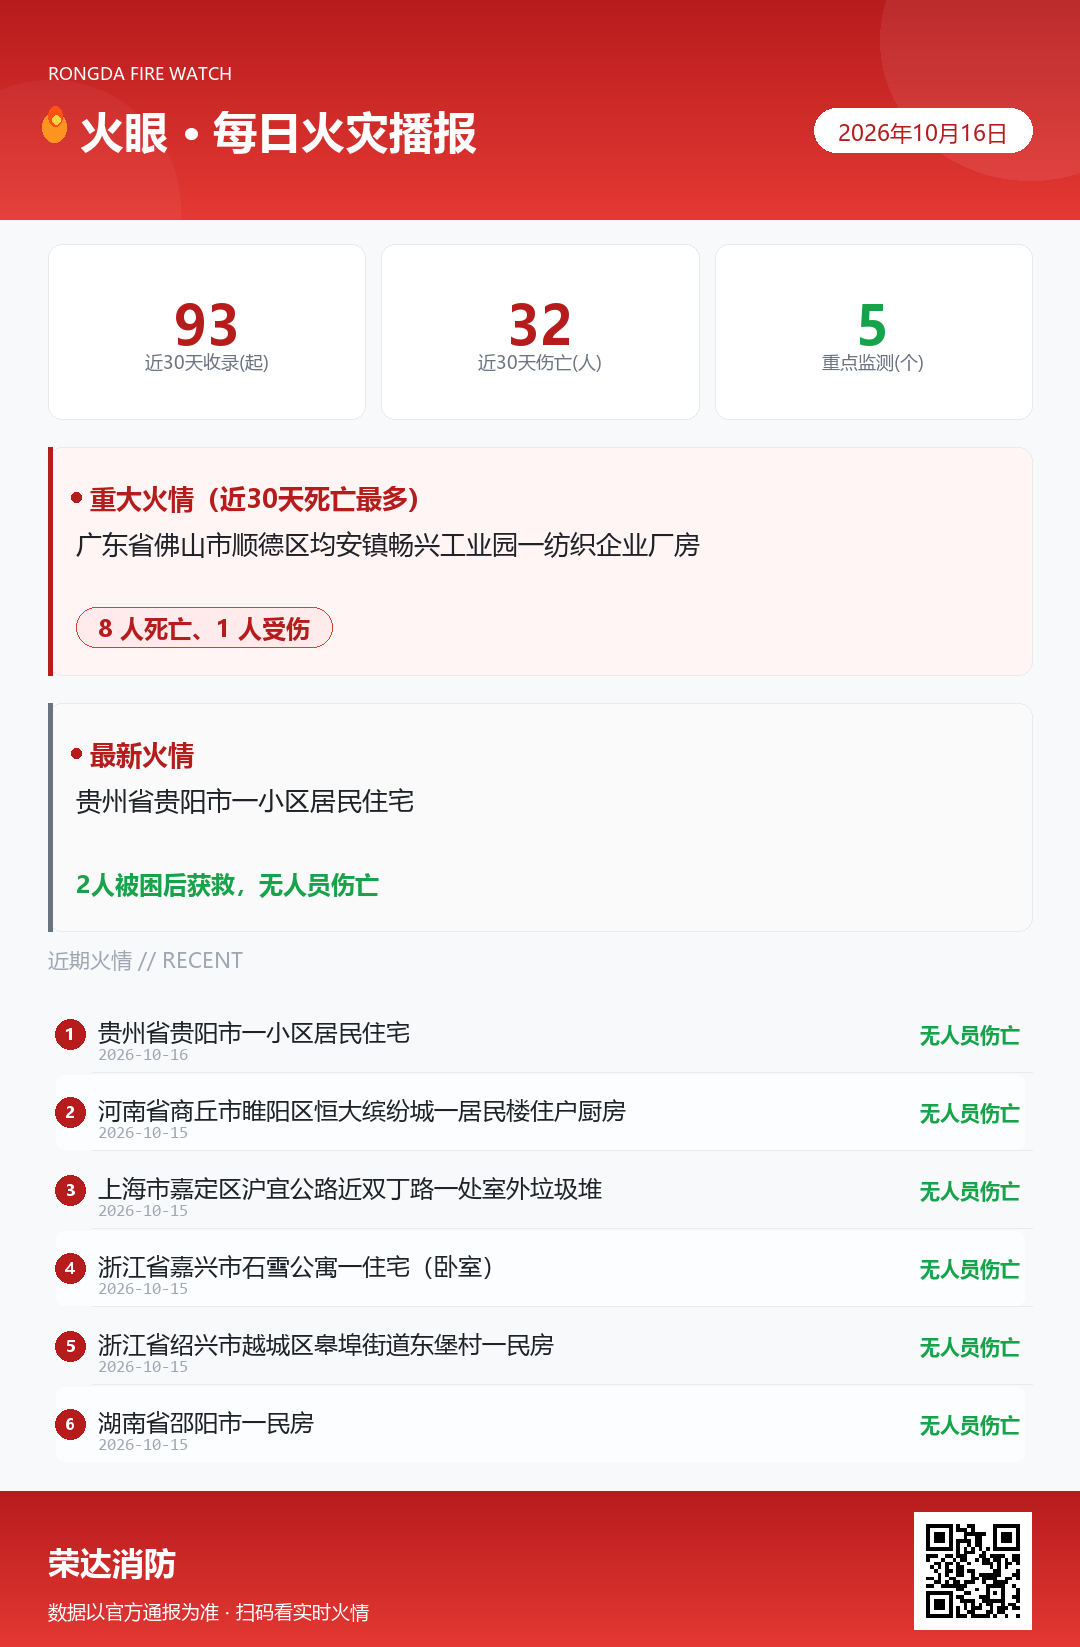
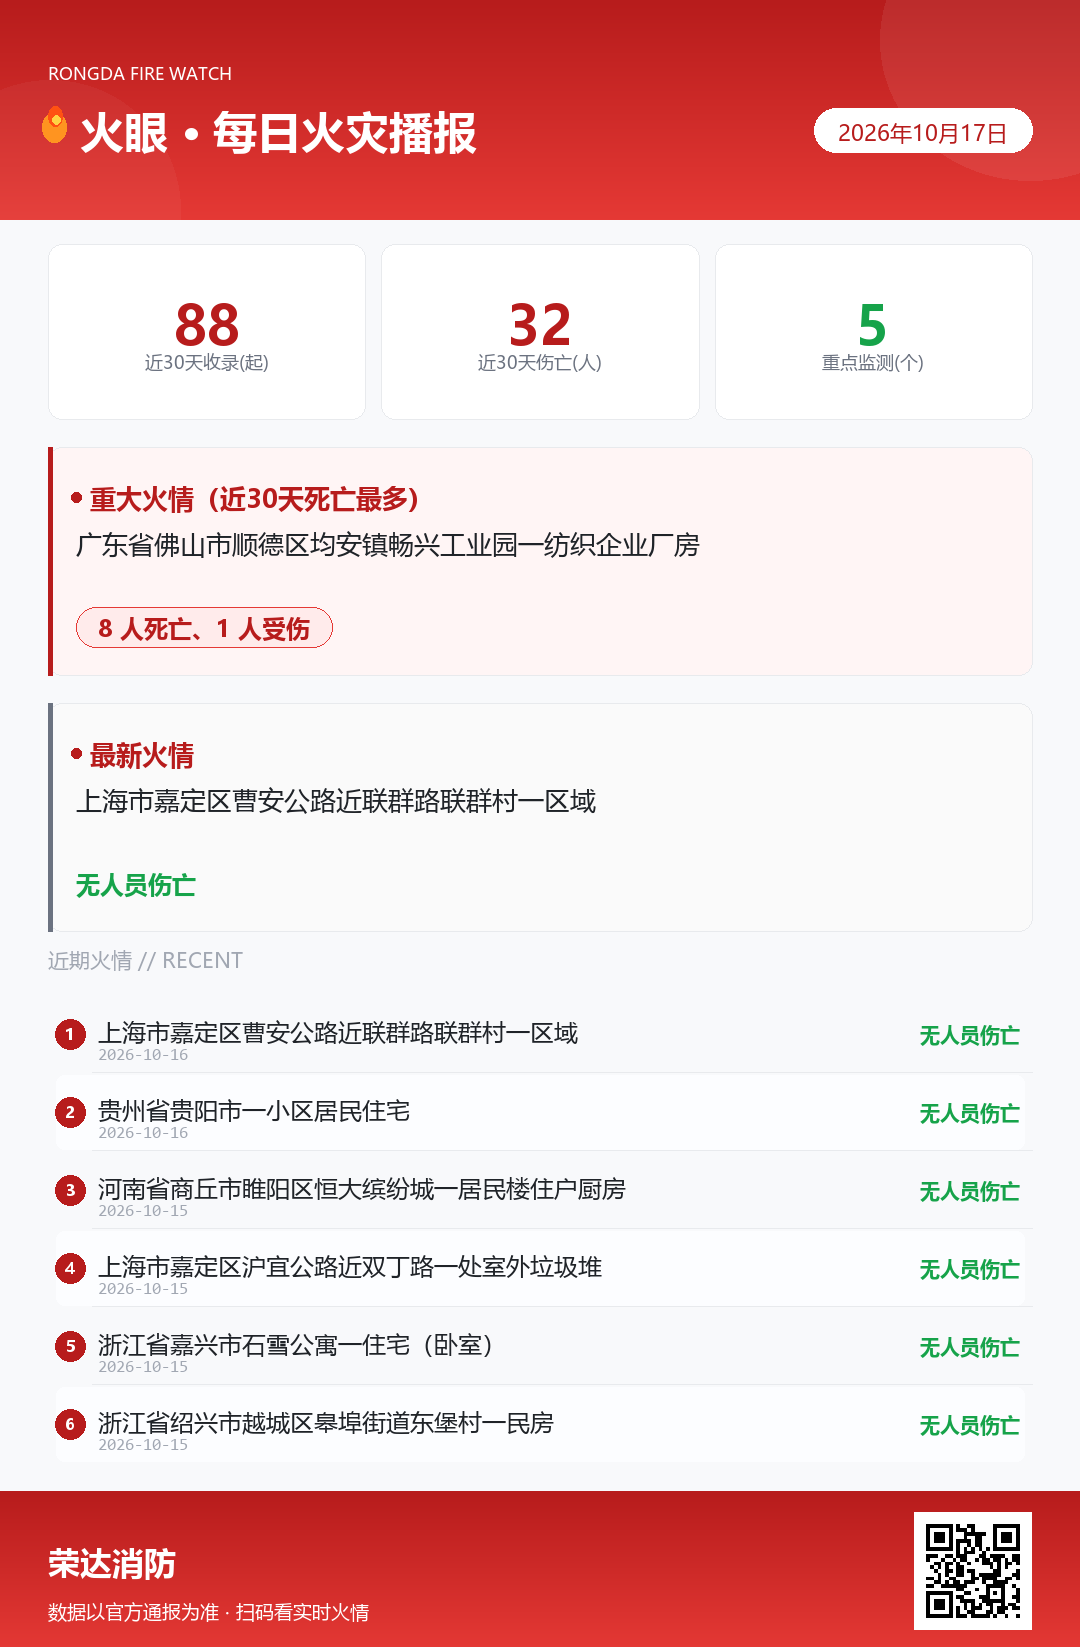
fire-daily-brief 2026-10-17 08:59 roll

diff --git a/index.html b/index.html
@@ -435,8 +435,8 @@
 <!-- ============ DATA（每日自动更新：由自动化脚本重写此对象） ============ -->
 <script id="brief-data" type="application/json">
 {
-  "date": "2026年10月16日",
-  "compileTime": "2026-10-16 09:18",
+  "date": "2026年10月17日",
+  "compileTime": "2026-10-17 08:58",
   "source": "AI 联网检索 · 各地消防救援机构官方通报及权威媒体转载",
   "range": "滚动更新 · 近 30 天",
   "stats": {
@@ -451,7 +451,7 @@
     },
     {
       "name": "上海市",
-      "status": "有官方通报（7·28/7·31 多起居民楼起火、8·4 闵行中春路单位建筑起火、8·7 虹口新市南路小区非机动车起火、8·10 浦东万安街路边车辆起火、8·17 G2京沪高速面包车起火、8·19 青浦盈浦街道居民顶楼起火、8·19 G1503绕城高速集卡追尾起火、8·28 浦东张江松涛路单位实验室起火、8·30 松江车墩镇松南城善德苑小区居民家中起火（无伤亡、9·1 凌晨浦东新区一社区居民楼6楼火情（2人送医）、9·1 杨浦新江湾城时代花园小区居民楼起火（无伤亡；9·1 松江区明中苑小区室外非机动车停车区域多辆非机动车烧毁（无伤亡、9·7 杨浦区殷行路近军工路小区垃圾房起火（无伤亡）、9·18 松江区泗泾镇方泗公路一辆新能源车追尾后起火燃烧（无人员伤亡）、9·28 浦东新区高青路一小区室外非机动车停车棚起火，多辆非机动车烧毁（无伤亡）、9·29 静安区天通庵路一工地内仓库起火（无伤亡）、9·29 崧泽高架平板牵引车起火（无伤亡）、10·9 宝山区上海大学南区学生公寓一女生宿舍起火（无人员伤亡）、10·9 青浦区城中西路一居民楼顶楼民宅起火（无人员伤亡报告））、10·12 杨浦区翔殷路791弄兰花新村小区一居民家中起火（2人送医，情况稳定、10·14 徐汇区天平街道一老式居民楼凌晨火情（充电宝故障热失控，无伤亡）、10·15 嘉定区沪宜公路近双丁路一处室外垃圾堆起火（燃烧垃圾渔网等杂物，无伤亡））"
+      "status": "有官方通报（7·28/7·31 多起居民楼起火、8·4 闵行中春路单位建筑起火、8·7 虹口新市南路小区非机动车起火、8·10 浦东万安街路边车辆起火、8·17 G2京沪高速面包车起火、8·19 青浦盈浦街道居民顶楼起火、8·19 G1503绕城高速集卡追尾起火、8·28 浦东张江松涛路单位实验室起火、8·30 松江车墩镇松南城善德苑小区居民家中起火（无伤亡、9·1 凌晨浦东新区一社区居民楼6楼火情（2人送医）、9·1 杨浦新江湾城时代花园小区居民楼起火（无伤亡；9·1 松江区明中苑小区室外非机动车停车区域多辆非机动车烧毁（无伤亡、9·7 杨浦区殷行路近军工路小区垃圾房起火（无伤亡）、9·18 松江区泗泾镇方泗公路一辆新能源车追尾后起火燃烧（无人员伤亡）、9·28 浦东新区高青路一小区室外非机动车停车棚起火，多辆非机动车烧毁（无伤亡）、9·29 静安区天通庵路一工地内仓库起火（无伤亡）、9·29 崧泽高架平板牵引车起火（无伤亡）、10·9 宝山区上海大学南区学生公寓一女生宿舍起火（无人员伤亡）、10·9 青浦区城中西路一居民楼顶楼民宅起火（无人员伤亡报告））、10·12 杨浦区翔殷路791弄兰花新村小区一居民家中起火（2人送医，情况稳定、10·14 徐汇区天平街道一老式居民楼凌晨火情（充电宝故障热失控，无伤亡）、10·15 嘉定区沪宜公路近双丁路一处室外垃圾堆起火（燃烧垃圾渔网等杂物，无伤亡）、10·16 嘉定区曹安公路近联群路一区域起火（夜间露天区域起火，无伤亡））"
     },
     {
       "name": "广州市",
@@ -464,12 +464,12 @@
   ],
   "case": {
     "date": "2026-10-16",
-    "location": "贵州省贵阳市一小区居民住宅",
-    "category": "住宅/民房",
-    "summary": "近日，贵阳市一小区居民住宅发生火灾，起火点位于该住宅厨房处，有 2 人被困。消防员迅速分组展开救援：一组利用水枪对火势进行压制，另一组立即对房门进行破拆，经过一段时间的紧张处置，成功将 2 名被困人员疏散到安全区域。据初步判断，本次火灾起火原因疑似电气故障所致，所幸救援及时，未造成人员伤亡。",
-    "casualty": "2人被困后获救，无人员伤亡",
-    "cause": "疑似电气故障（初步判断）",
-    "src": "贵阳消防（贵州消防全媒体中心，2026-10-16）"
+    "location": "上海市嘉定区曹安公路近联群路联群村一区域",
+    "category": "其他",
+    "summary": "10 月 16 日凌晨 0 时许，上海市嘉定区曹安公路近联群路联群村一区域发生火灾，现场窜出明火并冒出浓烟，附近高层住宅居民也目击到明火与黑烟。消防部门接警后迅速调派多个消防救援站的灭火救援力量到场处置，经全力扑救明火被扑灭、烟雾逐渐散去，未造成人员伤亡。目前火灾具体起因正在调查中。",
+    "casualty": "无人员伤亡",
+    "cause": "具体起火原因正在调查中",
+    "src": "新民晚报·上观新闻（2026-10-16）/ 上海消防"
   },
   "tips": [
     "电动车和电池别进楼：广州10月7日一出租屋室内给电池充电热失控，北京朝阳10月5日一小区充电柜锂电池热失控，南昌青山湖10月10日一厂区电动车棚被烧。电池放集中点充、不过夜、鼓包发烫马上停用。",
@@ -488,6 +488,15 @@
     "媒体转载内容均注明原始官方来源。"
   ],
   "history": [
+    {
+      "date": "2026-10-16",
+      "location": "上海市嘉定区曹安公路近联群路联群村一区域",
+      "category": "其他",
+      "summary": "10 月 16 日凌晨 0 时许，上海市嘉定区曹安公路近联群路联群村一区域发生火灾，现场窜出明火并冒出浓烟，附近高层住宅居民也目击到明火与黑烟。消防部门接警后迅速调派多个消防救援站的灭火救援力量到场处置，经全力扑救明火被扑灭、烟雾逐渐散去，未造成人员伤亡。目前火灾具体起因正在调查中。",
+      "casualty": "无人员伤亡",
+      "cause": "具体起火原因正在调查中",
+      "src": "新民晚报·上观新闻（2026-10-16）/ 上海消防"
+    },
     {
       "date": "2026-10-16",
       "location": "贵州省贵阳市一小区居民住宅",
